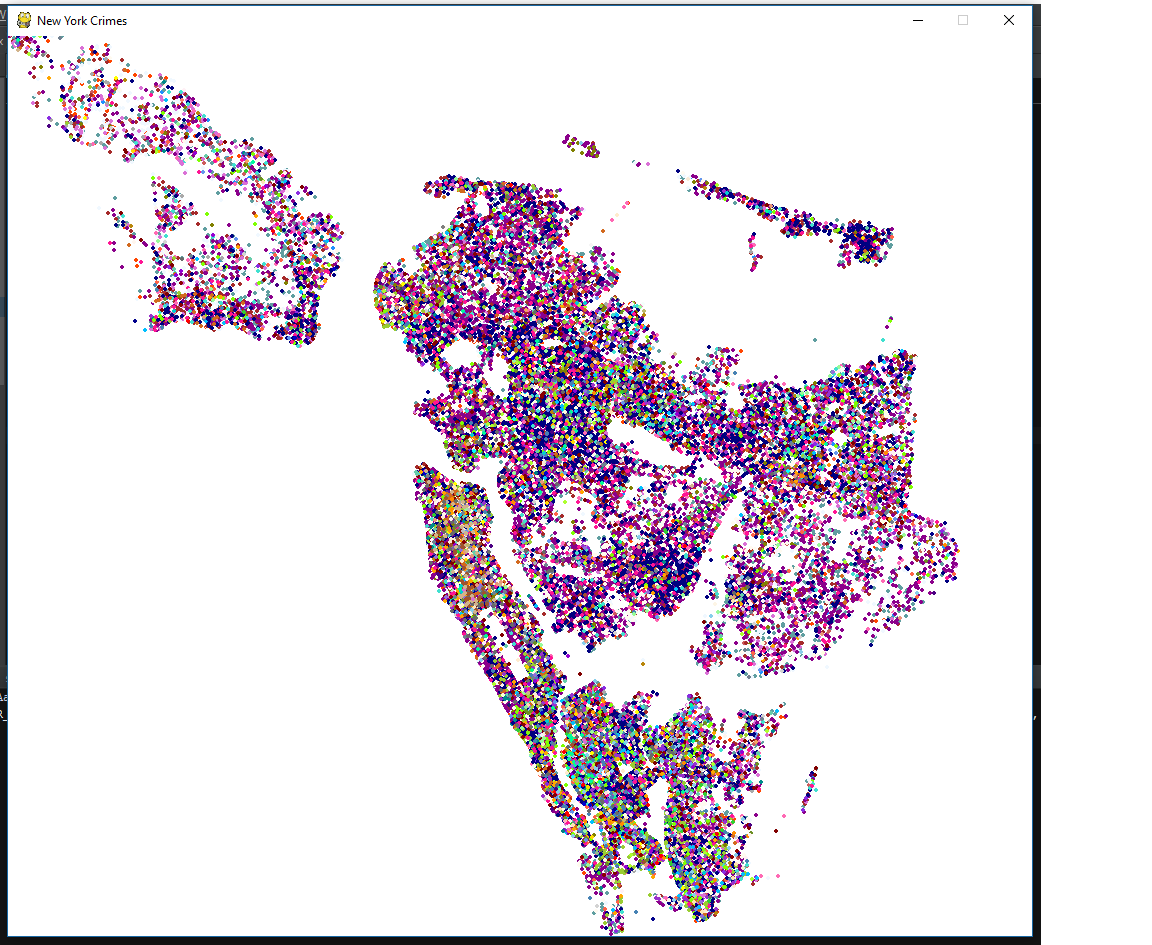
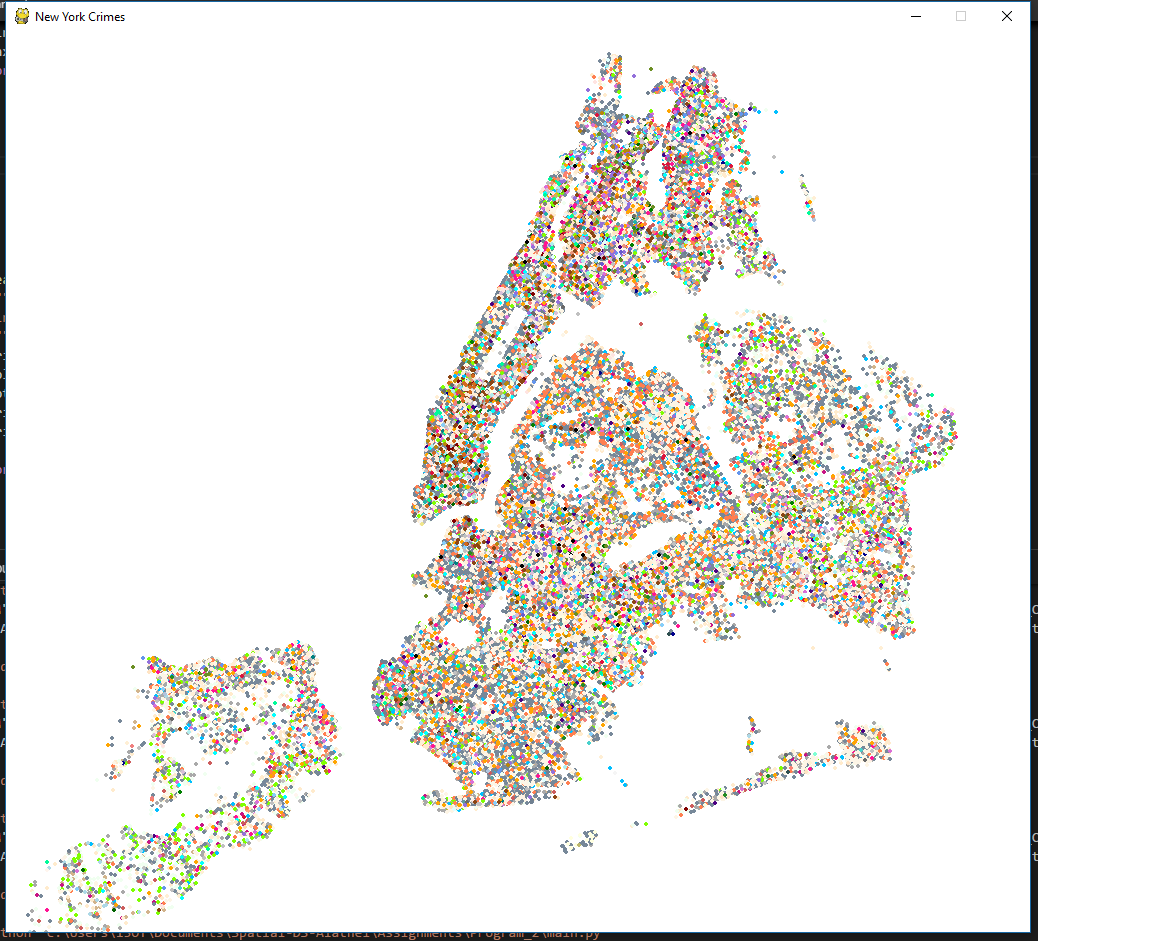
Inverted

Changed region(s): [[0.0, 0.0, 0.9062, 1.0]]

diff --git a/Assignments/Program_2/main.py b/Assignments/Program_2/main.py
@@ -6,10 +6,10 @@ import pygame
 import random
 import json
 import os
+import pprint as pp
 
-DIRPATH = os.path.abspath(os.path.join(os.path.dirname(__file__),
-                                 '..', '..', '..', '4553-Spatial-DS', 'Resources'))
-
+DIRPATH = os.path.abspath (
+    os.path.join ( os.path.dirname ( __file__ ), '..', '..', '..', '4553-Spatial-DS', 'Resources' ) )
 
 def clean_area(screen, origin, width, height, color):
     """
@@ -17,22 +17,19 @@ def clean_area(screen, origin, width, height, color):
     Could be used to erase a small area, or the entire screen.
     """
     ox, oy = origin
-    points = [(ox, oy), (ox + width, oy), (ox + width,
-                                           oy + height), (ox, oy + height), (ox, oy)]
-    pygame.draw.polygon(screen, color, points, 0)
+    points = [(ox, oy), (ox + width, oy), (ox + width, oy + height), (ox, oy + height), (ox, oy)]
+    pygame.draw.polygon ( screen, color, points, 0 )
 
-
-class Colors (object):
+class Colors ( object ):
     """
     Opens a json file of web colors.
     """
 
     def __init__(self, file_name=DIRPATH + '/Json_Files/colors.json'):
+        with open ( file_name, 'r' ) as content_file:
+            content = content_file.read ()
 
-        with open(file_name, 'r') as content_file:
-            content = content_file.read()
-
-        self.content = json.loads(content)
+        self.content = json.loads ( content )
 
     def get_random_color(self):
         """
@@ -78,7 +75,10 @@ class Colors (object):
         return self.get_rgb(color_name)
 
 
-def scaled(crimes):
+def scaled(crimes,width,height):
+    """
+scale the x, y coordianets to the screen
+    """
     points = []
     for key in crimes.keys():
         points.extend(crimes[key]['location'])
@@ -89,49 +89,71 @@ def scaled(crimes):
     for key in crimes.keys():
         lst = []
         for i in crimes[key]['location']:
-            x = int(950 * ((i[0] - min_x) / ((max_x - min_x))))
-            y = int(515 * ((i[1] - min_y) / ((max_y - min_y))))
+            x = int(width * ((i[0] - min_x) / ((max_x - min_x))))
+            y = int(height * ((i[1] - min_y) / ((max_y - min_y))))
+            y=-y+920
             lst.append(tuple((x, y)))
         crimes[key]['location'] = lst
 
 
-color = Colors()
-keys = []
-crimes = {}
-crimes['random'] = {'location': [],
-                    'color': color.get_random_color(), 'mbrs': []}
-got_keys = False
-crime_locations = ['bronx', 'brooklyn', 'manhattan', 'queens', 'staten_island']
-for crime_place in crime_locations:
-    with open(DIRPATH + '/NYPD_CrimeData/filtered_crimes_' + crime_place + '.csv') as f:
-        for line in f:
-            line = ''.join(x if i % 2 == 0 else x.replace(',', ':')
-                           for i, x in enumerate(line.split('"')))
-            line = line.strip().split(',')
-            if not got_keys:
-                keys = line
-                print(keys)
-                got_keys = True
-                continue
 
-            for e in line:
-                if e == '':
-                    line.remove(e)
-            if isinstance(line[7], str):
-                if line[7] not in crimes:
-                    crimes[line[7]] = {
-                        'location': [], 'color': color.get_random_color(), 'mbrs': []}
+def read_crimes():
+    """
+read in the five files and store them in a dict (crimes)
+    """
+    crimes = {}
+    color = Colors()
+    got_keys = False
+    crime_locations = ['bronx', 'brooklyn', 'manhattan', 'queens', 'staten_island']
+    crimes['random'] = {'location': [],'color': color.get_random_color(), 'mbrs': []}
+
+    for crime_place in crime_locations:
+        with open(DIRPATH + '/NYPD_CrimeData/filtered_crimes_' + crime_place + '.csv') as f:
+            for line in f:
+                line = ''.join(x if i % 2 == 0 else x.replace(',', ':')
+                            for i, x in enumerate(line.split('"')))
+                line = line.strip().split(',')
+                if not got_keys:
+                    keys = line
+                    print(keys)
+                    got_keys = True
+                    continue
+
+                for e in line:
+                    if e == '':
+                        line.remove(e)
                 try:
-                    crimes[line[7]]['location'].append(
+                    temp=int(line[7])
+                    if line[9] not in crimes:
+                        crimes[line[9]] = {
+                            'location': [], 'color': color.get_random_color(), 'mbrs': []}
+                    try:
+                        crimes[line[9]]['location'].append(
+                            tuple((float(line[-5]), float(line[-4]))))
+                    except:
+                        continue
+                except:
+                    if line[7] not in crimes:
+                        crimes[line[7]] = {
+                            'location': [], 'color': color.get_random_color(), 'mbrs': []}
+                    try:
+                        crimes[line[7]]['location'].append(
+                            tuple((float(line[-5]), float(line[-4]))))
+                    except:
+                        continue
+                try:
+                    crimes['random']['location'].append(
                         tuple((float(line[-5]), float(line[-4]))))
                 except:
                     continue
-            try:
-                crimes['random']['location'].append(
-                    tuple((float(line[-5]), float(line[-4]))))
-            except:
-                continue
-scaled(crimes)
+    return crimes
+
+
+crimes = read_crimes()
+scaled(crimes,950,515)
+text=open(os.path.abspath(os.path.join(os.path.dirname ( __file__ ),'..','..','..','random','WHATEVER')),'w')
+pp.pprint(crimes['random'],text)
+text.close()
 background_colour = (255, 255, 255)
 black = (0, 0, 0)
 (width, height) = (1024, 900)
